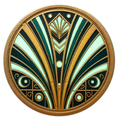
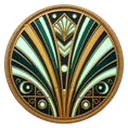
Retours sur l'étape 1 : jetons transparents, pions avec portrait, loupe en haut à gauche, indices sur la valeur du lieu, règle « rien n'est jamais bloqué »

diff --git a/public/css/room.css b/public/css/room.css
@@ -135,7 +135,12 @@
 .carte img { width: 100%; height: 100%; object-fit: cover; border-radius: 4px; display: block; }
 .carte.paysage { width: var(--carte-h); height: var(--carte-l); }
 .carte.epuisee { transform: rotate(90deg); }
+/* Jetons posés là où la carte imprime la valeur correspondante : indices en bas à droite des lieux,
+   doom en bas à gauche des agendas, dégâts/horreur en bas à droite des enquêteurs ; ailleurs en haut à gauche. */
 .carte .jetons { position: absolute; left: 3px; top: 3px; display: flex; flex-wrap: wrap; gap: 2px; max-width: calc(100% - 6px); }
+.carte.kind-location .jetons { left: auto; top: auto; right: 3px; bottom: 3px; justify-content: flex-end; }
+.carte.kind-agenda .jetons { top: auto; bottom: 3px; }
+.carte.kind-investigator .jetons { left: auto; top: auto; right: 3px; bottom: 3px; justify-content: flex-end; }
 .jeton { display: inline-flex; align-items: center; justify-content: center; width: 22px; height: 22px; border-radius: 50%; background-size: cover; font-size: 0.75rem; font-weight: 700; color: #fff; text-shadow: 0 0 3px #000, 0 0 3px #000; }
 .jeton-generic { background: var(--dorure); color: var(--nuit); text-shadow: none; }
 
@@ -179,8 +184,14 @@
 .plateau .carte { position: absolute; width: 126px; height: 178px; box-shadow: 0 4px 12px rgba(0, 0, 0, 0.6); }
 .plateau .carte.paysage { width: 178px; height: 126px; }
 .plateau .carte .jetons { left: 6px; top: 6px; }
+.plateau .carte.kind-location .jetons { left: auto; top: auto; right: 8px; bottom: 8px; }
+.plateau .carte.kind-agenda .jetons { top: auto; bottom: 6px; }
 .plateau .jeton { width: 30px; height: 30px; font-size: 1rem; }
-.mini { position: absolute; width: 30px; height: 30px; border-radius: 50%; background: var(--faction, var(--prevu)); border: 2px solid var(--papier); box-shadow: 0 2px 5px rgba(0, 0, 0, 0.6); display: grid; place-items: center; font-size: 0.75rem; font-weight: 700; color: #fff; text-shadow: 0 0 2px #000; }
+.mini { position: absolute; width: 44px; height: 44px; border-radius: 50%; overflow: hidden; background: var(--faction, var(--prevu)); border: 3px solid var(--faction, var(--prevu)); outline: 2px solid var(--papier); box-shadow: 0 3px 8px rgba(0, 0, 0, 0.7); display: grid; place-items: center; }
+.mini img { position: absolute; left: 0; top: 0; width: 250%; height: auto; margin: -23% 0 0 -9%; max-width: none; pointer-events: none; }
+.mini span { position: relative; font-size: 0.85rem; font-weight: 700; color: #fff; text-shadow: 0 0 3px #000; display: none; }
+.mini.sans-image img { display: none; }
+.mini.sans-image span { display: block; }
 .zoom { position: absolute; right: 0.75rem; bottom: 0.75rem; display: flex; gap: 0.25rem; }
 .zoom button { font: inherit; font-size: 0.9rem; min-width: 2rem; padding: 0.25rem 0.5rem; background: var(--nuit); color: var(--papier); border: 1px solid var(--filet); border-radius: 2px; cursor: pointer; }
 .zoom button:hover { border-color: var(--dorure); }
@@ -209,7 +220,7 @@
 .compteurs { display: grid; gap: 0.25rem; margin: 0; font-size: 0.9rem; align-content: start; }
 .compteur { display: grid; grid-template-columns: 5.2rem auto; column-gap: 0.4rem; align-items: center; }
 .compteur dt { display: flex; align-items: center; gap: 0.35rem; color: var(--papier-2); }
-.compteur dt img { width: 1.1rem; height: 1.1rem; }
+.compteur dt img { width: 1.35rem; height: 1.35rem; }
 .compteur dd { margin: 0; font-weight: 500; }
 .compteur dd.detail { grid-column: 2; font-weight: 400; color: var(--wip); font-size: 0.8rem; }
 .actions-pips { display: flex; gap: 0.3rem; align-items: center; margin-top: 0.2rem; }
@@ -225,7 +236,7 @@
 .encart.erreur { border-left-color: var(--wip); }
 .encart.info { border-left-color: var(--ok); }
 .encart .fermer { margin-left: auto; font: inherit; font-size: 1.2rem; line-height: 1; background: none; border: 0; cursor: pointer; color: var(--nuit); }
-.loupe { position: fixed; right: 1rem; top: 4rem; z-index: 40; pointer-events: none; width: 19rem; border-radius: 10px; overflow: hidden; box-shadow: 0 10px 40px rgba(0, 0, 0, 0.75); }
+.loupe { position: absolute; left: 0.75rem; top: 0.75rem; z-index: 40; pointer-events: none; width: 19rem; border-radius: 10px; overflow: hidden; box-shadow: 0 10px 40px rgba(0, 0, 0, 0.75); }
 .loupe.paysage { width: 27rem; }
 .loupe img { display: block; width: 100%; }
 

diff --git a/public/js/room/cartes.js b/public/js/room/cartes.js
@@ -96,17 +96,26 @@ export function majCarte(el, carte, ctx) {
   return el;
 }
 
-/** Pion d'enquêteur : disque aux couleurs de la classe, initiales du nom. */
+export const MINI = 44;
+
+/** Pion d'enquêteur : portrait recadré dans un disque cerclé de la couleur de classe ; initiales si l'image manque. */
 export function majMini(el, carte, ctx) {
   const inv = ctx.investigateurs.get(carte.code);
   if (!el) {
     el = document.createElement("div");
     el.dataset.id = carte.id;
+    const img = document.createElement("img");
+    img.alt = "";
+    img.draggable = false;
+    img.addEventListener("error", () => el.classList.add("sans-image"));
+    el.append(img, document.createElement("span"));
   }
   const faction = FACTIONS[inv?.faction] ?? FACTIONS.neutral;
   el.className = "mini";
   el.style.setProperty("--faction", faction.couleur);
-  el.textContent = initiales(inv?.name ?? "?");
+  const src = `${CDN}${carte.code}.webp`;
+  if (el.firstChild.getAttribute("src") !== src) el.firstChild.src = src;
+  el.lastChild.textContent = initiales(inv?.name ?? "?");
   el.title = inv ? `${inv.name} — siège ${carte.ownerSeat + 1}` : carte.code;
   return el;
 }

diff --git a/src/setup.ts b/src/setup.ts
@@ -12,6 +12,7 @@ export type Rng = () => number;
 export const SEAT_ZONES: ZoneId[] = ["seat0", "seat1", "seat2", "seat3"];
 export const CARD_W = 126;
 export const CARD_H = 178;
+export const MINI = 44;
 const ASIDE_GAP = 10;
 
 export function shuffle<T>(arr: T[], rng: Rng): T[] {
@@ -126,8 +127,8 @@ export function runSetup(state: RoomState, def: ScenarioDef, rng: Rng = Math.ran
     seated.forEach((s, i) => {
       state.cards[`mini-${s.index}`] = {
         id: `mini-${s.index}`, code: s.investigatorCode!, kind: "mini", storyBack: false,
-        // Rangée de pions à cheval sur le bord bas du lieu ; les jetons du lieu restent visibles en haut à gauche.
-        loc: { zone: "board", x: (lieu.loc as { x: number }).x + 6 + i * 32, y: (lieu.loc as { y: number }).y + CARD_H - 18, z: z++ },
+        // Rangée de pions (44 px) à cheval sur le bord haut du lieu ; les indices restent visibles en bas à droite.
+        loc: { zone: "board", x: (lieu.loc as { x: number }).x + 4 + i * MINI + i * 2, y: (lieu.loc as { y: number }).y - MINI / 2, z: z++ },
         faceUp: true, exhausted: false, side: "a", tokens: {}, ownerSeat: s.index,
       };
     });

diff --git a/public/js/room/tapis.js b/public/js/room/tapis.js
@@ -1,7 +1,7 @@
 // Tapis : rendu de l'état de jeu (zones fixes + zone des lieux zoomable). Étape 1 : affichage seul.
 
 import { el, pluriel } from "./dom.js";
-import { majCarte, majMini, urlImage, loupePermise, CARTE_L, CARTE_H, JETONS_CHAOS, FACTIONS } from "./cartes.js";
+import { majCarte, majMini, urlImage, loupePermise, CARTE_L, CARTE_H, MINI, JETONS_CHAOS, FACTIONS } from "./cartes.js";
 import { nomSiege } from "./lobby.js";
 
 export const PHASES = {
@@ -130,7 +130,7 @@ export function ajusterVue(ctx) {
   if (!cartes.length || !W) { vue.k = Math.min(W / 1600, H / 1000) || 1; vue.tx = 0; vue.ty = 0; appliquerVue(); return; }
   let x0 = Infinity, y0 = Infinity, x1 = -Infinity, y1 = -Infinity;
   for (const c of cartes) {
-    const w = c.kind === "mini" ? 30 : CARTE_L, h = c.kind === "mini" ? 30 : CARTE_H;
+    const w = c.kind === "mini" ? MINI : CARTE_L, h = c.kind === "mini" ? MINI : CARTE_H;
     x0 = Math.min(x0, c.loc.x); y0 = Math.min(y0, c.loc.y); x1 = Math.max(x1, c.loc.x + w); y1 = Math.max(y1, c.loc.y + h);
   }
   const marge = 160;

diff --git a/public/room.html b/public/room.html
@@ -41,6 +41,7 @@
 
     <section class="plateau-zone" id="board" aria-label="Zone des lieux">
       <div class="plateau" id="plateau"></div>
+      <div id="loupe" class="loupe" hidden><img alt=""></div>
       <div class="table-outils">
         <section class="pioches" id="pioches"></section>
         <section class="chaos" id="chaos"></section>
@@ -62,8 +63,6 @@
   </main>
 
   <div id="rappels" class="rappels" aria-live="polite"></div>
-  <div id="loupe" class="loupe" hidden><img alt=""></div>
-
   <script type="module" src="/js/room/main.js"></script>
 </body>
 </html>

diff --git a/docs/ARKHAM_WEB_notes.md b/docs/ARKHAM_WEB_notes.md
@@ -36,6 +36,13 @@ dont il reprend le savoir métier mais AUCUNE contrainte de plateforme.
   (Workers Builds branché sur `main`, plan gratuit ; les previews sont
   sur `<hash>-ahwa.rivardlaudelex.workers.dev`). Vérifié en ligne :
   pages, `POST /api/rooms`, WebSocket hôte/spectateur, code inconnu 4404.
+- 2026-09-03 : **retours de l'utilisateur sur l'étape 1** appliqués :
+  jetons PNG recadrés sur leur disque et rendus transparents (les
+  originaux avaient un fond blanc), pions d'enquêteur 44 px avec
+  portrait recadré de la carte, loupe dans le coin haut gauche de la
+  zone des lieux, indices posés en bas à droite des lieux (sur la
+  valeur imprimée), doom en bas à gauche des agendas, dégâts/horreur en
+  bas à droite des enquêteurs ; règle « rien n'est jamais bloqué » (§2).
 - 2026-09-03 : **première table, étape 1 (lobby + mise en place + tapis
   affiché)** livrée pour *Night of the Zealot I — The Gathering*.
   Pipeline `scripts/build.mjs` (ArkhamDB → `public/scenarios/<id>.json`,
@@ -219,9 +226,12 @@ prévu. Pas de liste publique des rooms actives.
 - **Première manche** : la mise en place enchaîne directement sur la
   phase des enquêteurs (le mythe est sauté à la manche 1, règle générale).
 - **Carte de scénario** posée côté « b » (référence des jetons du chaos).
-- **Jetons** sur les cartes en haut à gauche (les seuils imprimés des
-  agendas sont en bas à gauche) ; pions d'enquêteur en rangée à cheval
-  sur le bord bas du lieu.
+- **Jetons** posés là où la carte imprime la valeur correspondante :
+  indices en bas à droite des lieux, doom en bas à gauche des agendas,
+  dégâts/horreur en bas à droite de l'enquêteur, sinon en haut à
+  gauche. **Pions** d'enquêteur (44 px, portrait recadré, cercle de la
+  couleur de classe) en rangée à cheval sur le bord haut du lieu.
+- **Loupe** (survol) dans le coin haut gauche de la zone des lieux.
 - **Statuts du catalogue** : `available` = définition présente dans le
   registre ; les 10 scénarios importés de PCIO sont `wip` tant qu'ils
   n'ont pas de `*.src.json` (le Worker refuse de créer une table pour un
@@ -296,6 +306,15 @@ Commandes : `npm run dev`, `npm run check` (tsc + dry-run),
 - Rooms de **1 à 4 joueurs** (nombre figé au setup). Ce qui dépend du journal de campagne ou d'un choix des joueurs
   reste MANUEL, mais l'app doit le RAPPELER au bon moment (message de
   setup, encart sur le tapis).
+- **Rien n'est jamais bloqué** (règle posée le 2026-09-03) : les
+  automatisations exécutent des actions, mais les joueurs peuvent tout
+  modifier à la main, tout le temps, en plus. Le serveur ne refuse une
+  action que pour une raison de rôle (hôte) ou d'intégrité (siège pris,
+  carte inconnue), jamais parce que « ce n'est pas le moment » :
+  « Phase suivante » reste cliquable même si tout le monde n'a pas
+  joué, un compteur se modifie dans les deux sens, une carte se
+  retourne ou se déplace à tout moment. Les états « tour en cours /
+  a joué » sont des indications visuelles, pas des verrous.
 - Ordre de mise en place = ordre du diagramme « Suggested Location
   Placement » du guide. Les lieux entrent en jeu face cachée (non
   révélés) sauf mention contraire du Setup.

diff --git a/docs/CAHIER_DES_CHARGES.md b/docs/CAHIER_DES_CHARGES.md
@@ -355,6 +355,13 @@ l'avancement reste au clic.
 
 ## 8. Contraintes transverses
 
+- **Rien n'est jamais bloqué** : les automatisations agissent, les
+  joueurs peuvent tout modifier à la main à tout moment. Un refus
+  (`nack`) n'a que deux motifs : rôle (action d'hôte) ou intégrité
+  (siège pris, carte ou pile inconnue). Aucune action n'est refusée au
+  motif de la phase ou du tour ; les indications « tour en cours »,
+  « a joué », « seuil atteint » sont visuelles.
+
 - Français partout, typographie française (espaces insécables).
 - Images `cdn.arkham.build` sondées avec `new Image()` ; bandeau si
   le CDN est injoignable.
